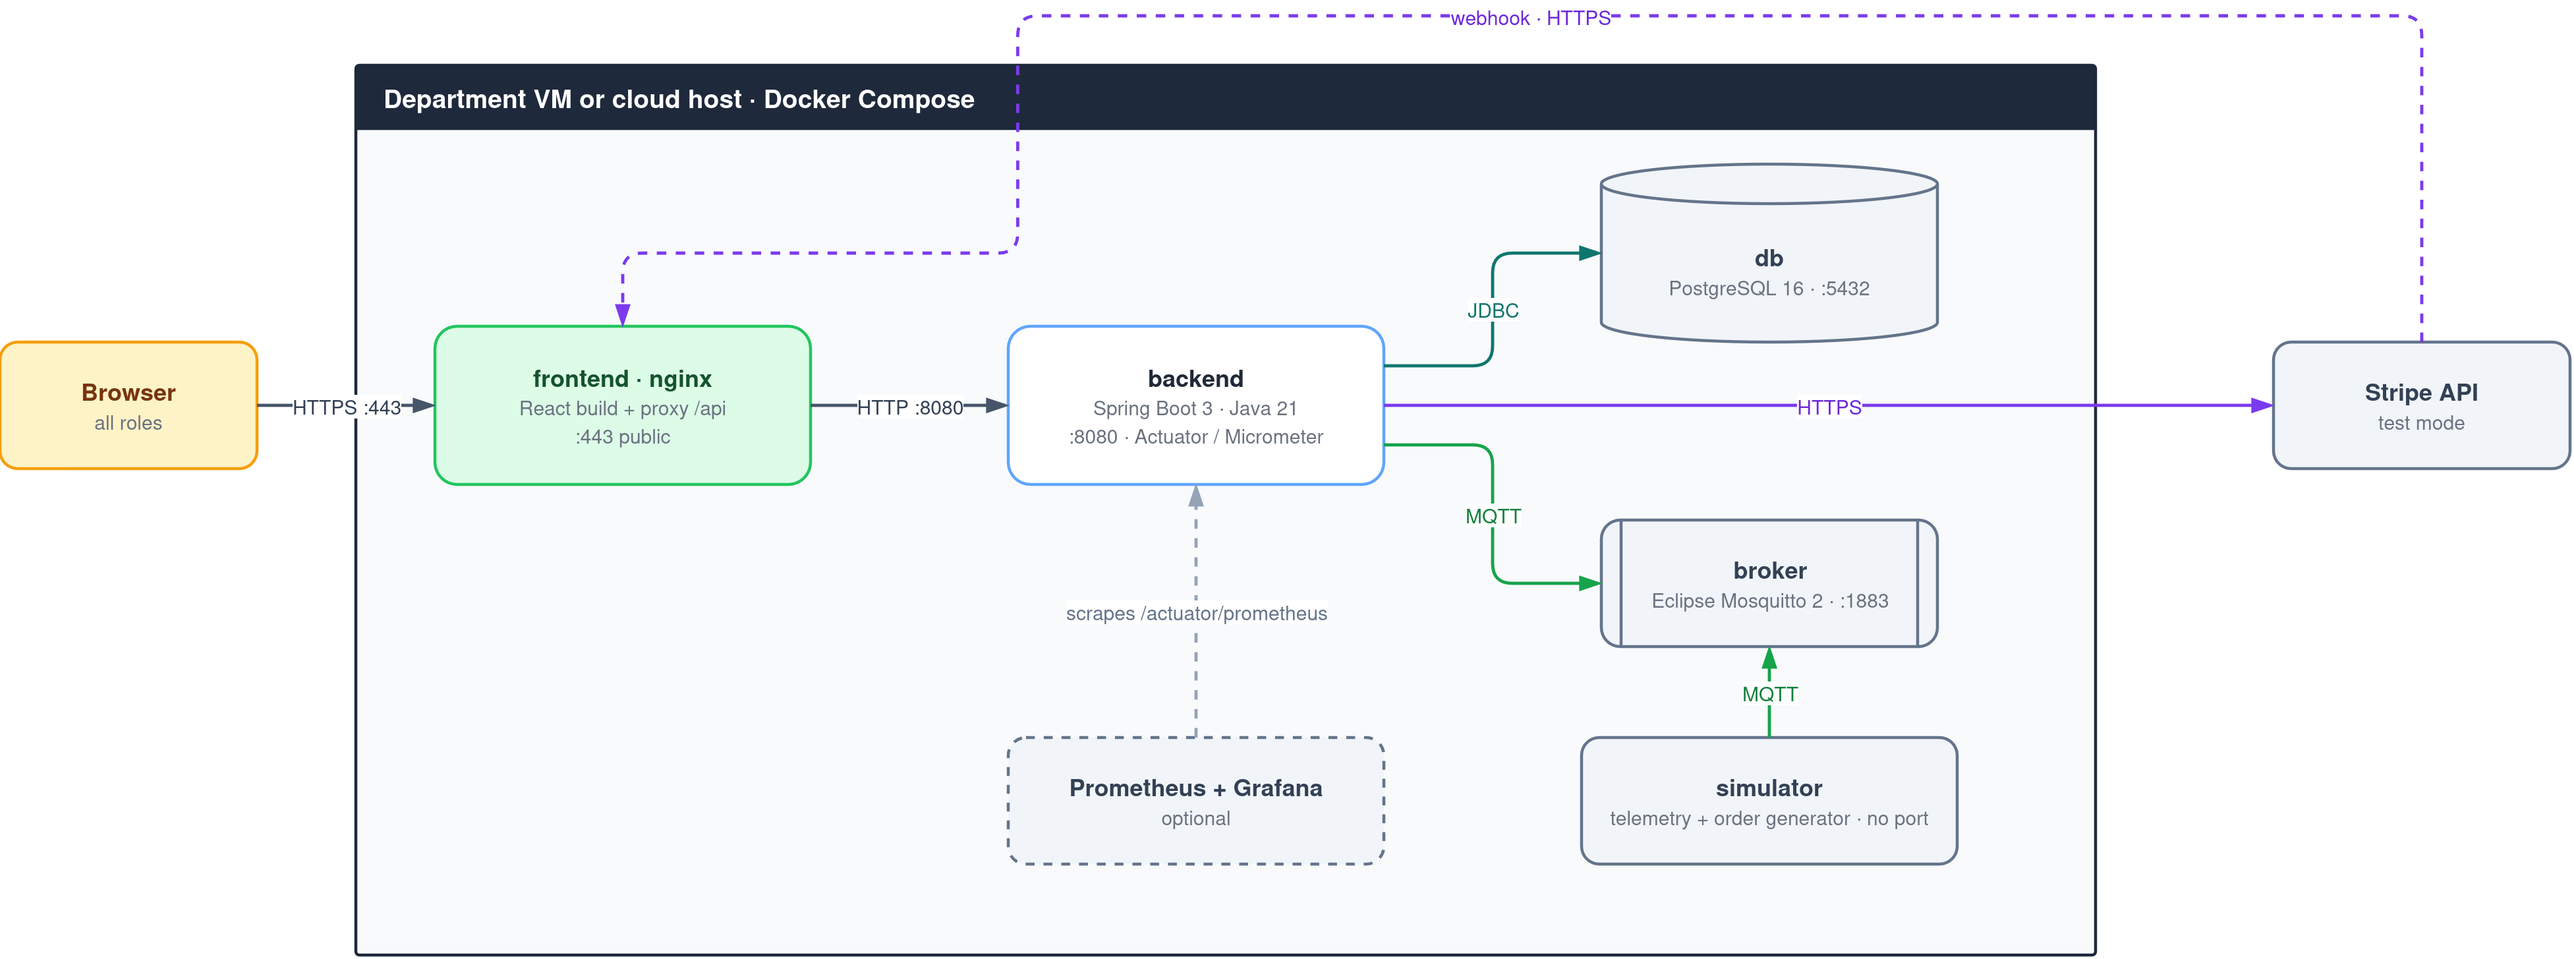
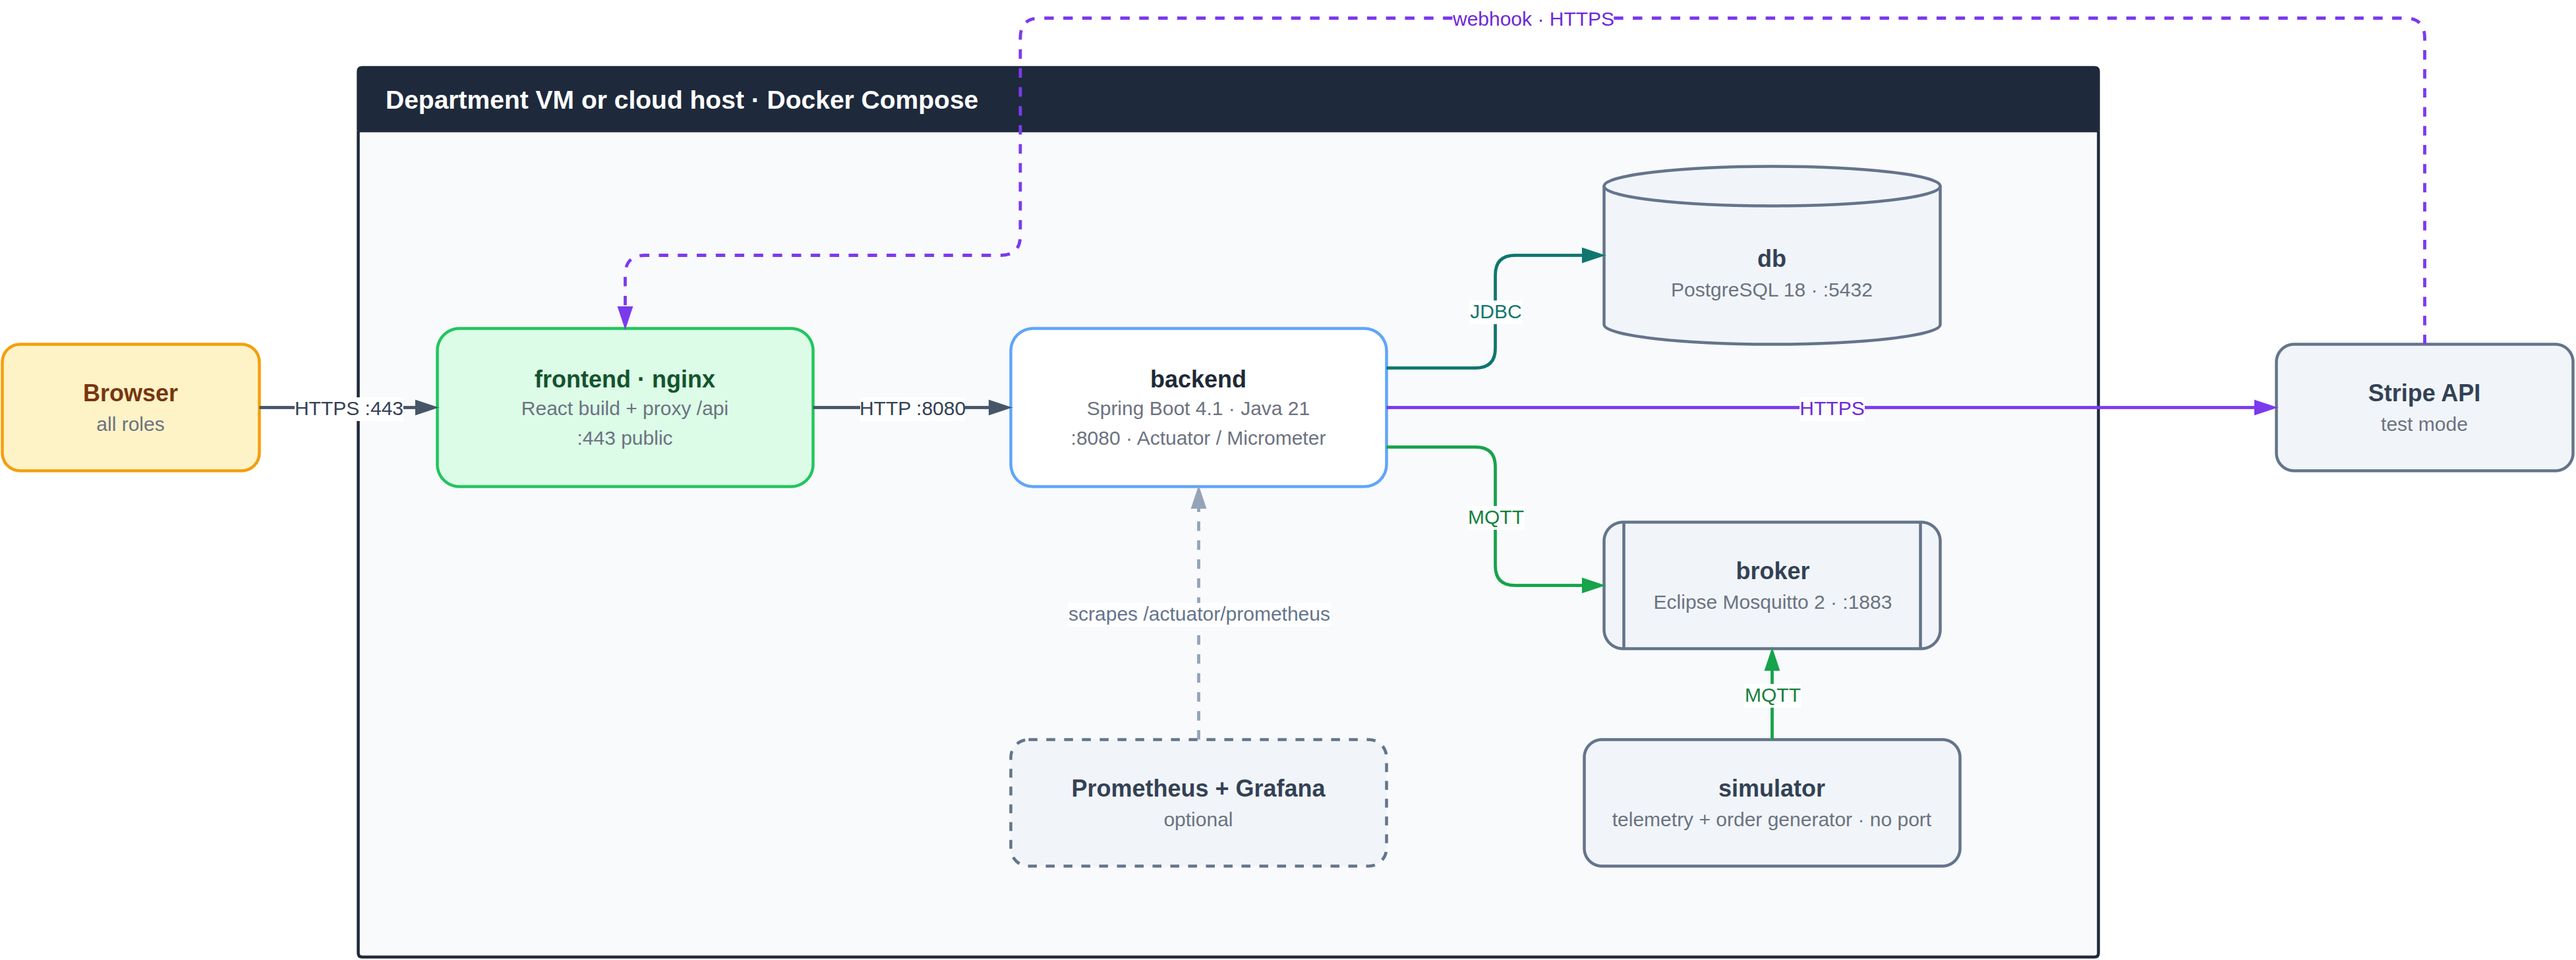
HE-58 Show the technology and where each part runs in the logical view
Fix the deployment view versions: Spring Boot 4.1 and PostgreSQL 18.

diff --git a/README.md b/README.md
@@ -37,7 +37,7 @@ Every member is also a developer.
 
 The backend is one deployable built with ports and adapters: the domain and services never call the fleet simulator, Stripe or the database directly, only through their ports.
 
-**Logical view:** modules, ports and adapters, and the external systems they reach.
+**Logical view:** modules, ports and adapters, the main technology of each building block and where it runs: the web UI in the user's browser, the backend, database, MQTT broker and fleet simulator each in its own container, and Stripe as an external service.
 
 ![HiperEats logical view](docs/architecture/logical-view.png)
 
